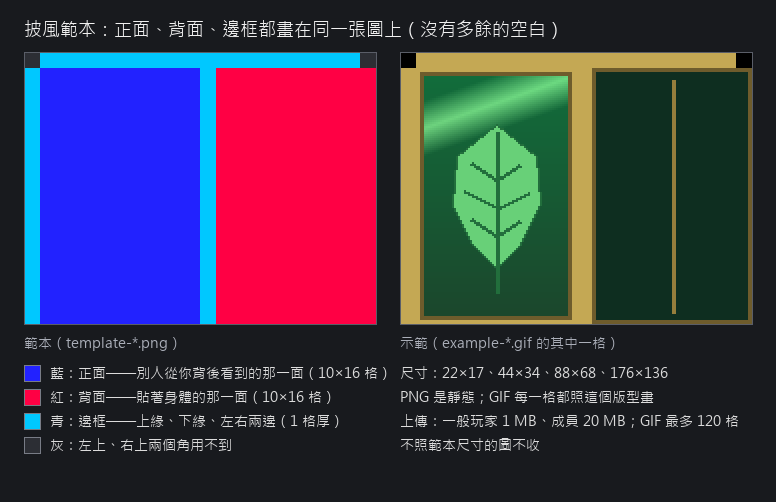
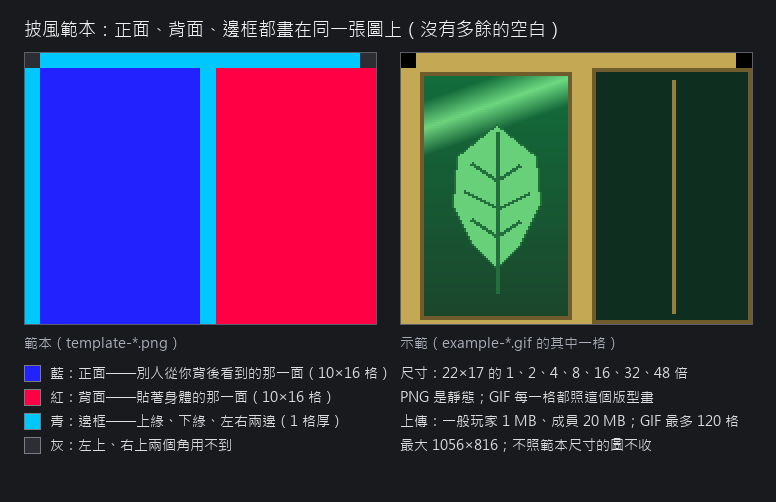
披風範本：多三種大尺寸（352×272、704×544、1056×816），說明圖與資料夾說明跟著改 (#1185)

Changed region(s): [[0.6186, 0.7171, 0.8969, 0.7769], [0.4948, 0.8665, 0.8351, 0.8964]]

diff --git a/capes/templates/README.md b/capes/templates/README.md
@@ -10,13 +10,13 @@ Draw your cape on one of the templates, then upload it in game (**F6 → Badge &
 
 | File | What it is |
 | --- | --- |
-| `template-22x17.png`, `template-44x34.png`, `template-88x68.png`, `template-176x136.png` | The layout in four sizes. Pick one and paint over it. |
+| `template-22x17.png`, `template-44x34.png`, `template-88x68.png`, `template-176x136.png`, `template-352x272.png`, `template-704x544.png`, `template-1056x816.png` | The layout in seven sizes. Pick one and paint over it. |
 | `example-88x68.png` | A finished static cape. |
 | `example-*.gif` | A finished animated cape in each size. |
 | `guide.en.png`, `guide.png` | The picture above, in English and Chinese. |
 
 - **Blue** is the front, the side others see from behind you (10×16 cells). **Red** is the back, the side against your body (10×16 cells). **Cyan** is the border: top, bottom, left and right, 1 cell thick. The two top corners are not used.
-- The image must be exactly one of the four sizes: 22×17, 44×34, 88×68 or 176×136.
+- The image must be exactly one of the seven sizes: 22×17, 44×34, 88×68, 176×136, 352×272, 704×544 or 1056×816. In game a cape is drawn at 352×272 at most, so the two largest sizes look the same there; they are mainly sharper on the website.
 - PNG is static and open to everyone, up to 1 MB. GIF (up to 120 frames, every frame on this same layout) and the 20 MB limit are for developers, sponsors and contributors.
 - Political, obscene, unlawful or racist content is not allowed and will be removed.
 
@@ -28,12 +28,12 @@ Draw your cape on one of the templates, then upload it in game (**F6 → Badge &
 
 | 檔案 | 用途 |
 | --- | --- |
-| `template-22x17.png`、`template-44x34.png`、`template-88x68.png`、`template-176x136.png` | 四種尺寸的版型，挑一個直接畫上去。 |
+| `template-22x17.png`、`template-44x34.png`、`template-88x68.png`、`template-176x136.png`、`template-352x272.png`、`template-704x544.png`、`template-1056x816.png` | 七種尺寸的版型，挑一個直接畫上去。 |
 | `example-88x68.png` | 畫好的靜態披風。 |
 | `example-*.gif` | 各尺寸畫好的動態披風。 |
 | `guide.png`、`guide.en.png` | 上面那張說明圖的中文版與英文版。 |
 
 - **藍色**是正面，別人從你背後看到的那一面（10×16 格）；**紅色**是背面，貼著身體的那一面（10×16 格）；**青色**是邊框：上緣、下緣、左右兩邊，1 格厚。左上、右上兩個角用不到。
-- 圖片必須剛好是四種尺寸之一：22×17、44×34、88×68、176×136。
+- 圖片必須剛好是七種尺寸之一：22×17、44×34、88×68、176×136、352×272、704×544、1056×816。遊戲裡披風最多用到 352×272，更大的兩種在遊戲裡看起來一樣，主要是網站上比較清楚。
 - PNG 是靜態，大家都能傳，1 MB 以內。GIF（最多 120 格，每一格都照這個版型畫）與 20 MB 的上限給開發者、贊助者、貢獻者。
 - 不可以上傳政治、不雅、違反法規、種族歧視的內容，違規的會被移除。
